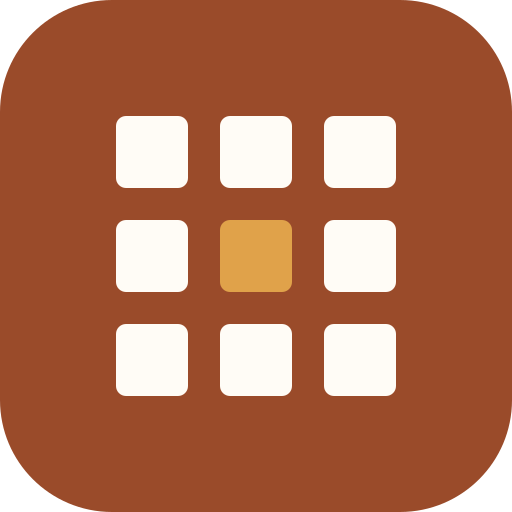
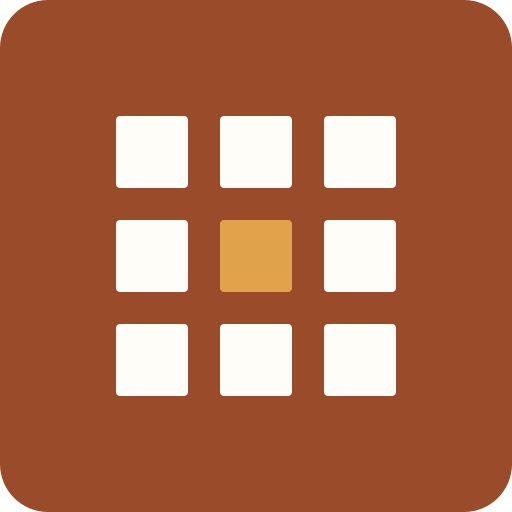
Design system 2.0.0: lighter backgrounds and subtle corners
- Lighter page and card backgrounds in daylight and golden hour; daylight
  body text contrast 13.1 -> 13.7:1 (still within the 7-14 rule).
- Corner radius scale reduced to 2/3/4/6/8px; radius.pill and
  radius.circle removed. Chips, tabs, language switch, badges and the
  toggle switch get 3-4px corners. Flatter app icon corners.

Claude-Session: https://claude.ai/code/session_015JBMz7oi3qhYvusnXW5XYX

diff --git a/design-system/dist/preview.html b/design-system/dist/preview.html
@@ -33,7 +33,7 @@
 <main>
   <button class="btn toggle" id="theme" type="button">Theme: system</button>
   <h1>Mannheim Feed design tokens</h1>
-  <p>Version 2.0.0 · 99 tokens · generated from <code>design-system/tokens/</code>. Do not edit this file by hand.</p>
+  <p>Version 2.0.0 · 97 tokens · generated from <code>design-system/tokens/</code>. Do not edit this file by hand.</p>
 
   <h2>Semantic colours (use these in the app; they change with the theme)</h2>
   <ul><li class="sw"><span class="chip" style="background:var(--mf-color-bg-page)"></span>
@@ -56,20 +56,20 @@
   <h2>Core palette (raw values, never used directly in components)</h2>
   <ul><li class="sw"><span class="chip" style="background:var(--mf-color-sand-0)"></span>
         <b>color.sand.0</b><code>#ffffff</code><small>Pure white. Only for small details such as the switch knob.</small></li><li class="sw"><span class="chip" style="background:var(--mf-color-sand-25)"></span>
-        <b>color.sand.25</b><code>#fffcf6</code><small>Daylight paper: cards, inputs, tab bar.</small></li><li class="sw"><span class="chip" style="background:var(--mf-color-sand-50)"></span>
-        <b>color.sand.50</b><code>#faf5ec</code><small>Daylight cream: page background.</small></li><li class="sw"><span class="chip" style="background:var(--mf-color-sand-100)"></span>
-        <b>color.sand.100</b><code>#e9ddc9</code><small>Warm candle-light text (golden hour).</small></li><li class="sw"><span class="chip" style="background:var(--mf-color-sand-200)"></span>
-        <b>color.sand.200</b><code>#e6dccb</code><small>Sand: daylight dividers and outlines.</small></li><li class="sw"><span class="chip" style="background:var(--mf-color-sand-400)"></span>
-        <b>color.sand.400</b><code>#b6a48d</code><small>Dry grass: secondary text at golden hour.</small></li><li class="sw"><span class="chip" style="background:var(--mf-color-sand-600)"></span>
+        <b>color.sand.25</b><code>#fffdf8</code><small>Daylight paper: cards, inputs, tab bar.</small></li><li class="sw"><span class="chip" style="background:var(--mf-color-sand-50)"></span>
+        <b>color.sand.50</b><code>#fdfbf6</code><small>Daylight cream: page background.</small></li><li class="sw"><span class="chip" style="background:var(--mf-color-sand-100)"></span>
+        <b>color.sand.100</b><code>#ece1cf</code><small>Warm candle-light text (golden hour).</small></li><li class="sw"><span class="chip" style="background:var(--mf-color-sand-200)"></span>
+        <b>color.sand.200</b><code>#e8e0d2</code><small>Sand: daylight dividers and outlines.</small></li><li class="sw"><span class="chip" style="background:var(--mf-color-sand-400)"></span>
+        <b>color.sand.400</b><code>#bcab95</code><small>Dry grass: secondary text at golden hour.</small></li><li class="sw"><span class="chip" style="background:var(--mf-color-sand-600)"></span>
         <b>color.sand.600</b><code>#6c5d4f</code><small>Driftwood: secondary text in daylight.</small></li><li class="sw"><span class="chip" style="background:var(--mf-color-sand-700)"></span>
-        <b>color.sand.700</b><code>#3f342a</code><small>Dusk dividers.</small></li><li class="sw"><span class="chip" style="background:var(--mf-color-sand-800)"></span>
+        <b>color.sand.700</b><code>#483c30</code><small>Dusk dividers.</small></li><li class="sw"><span class="chip" style="background:var(--mf-color-sand-800)"></span>
         <b>color.sand.800</b><code>#33291f</code><small>Espresso ink: body text in daylight.</small></li><li class="sw"><span class="chip" style="background:var(--mf-color-sand-900)"></span>
-        <b>color.sand.900</b><code>#272019</code><small>Dusk surface: cards at golden hour.</small></li><li class="sw"><span class="chip" style="background:var(--mf-color-sand-950)"></span>
-        <b>color.sand.950</b><code>#1d1813</code><small>Dusk sky: page at golden hour.</small></li><li class="sw"><span class="chip" style="background:var(--mf-color-sun-100)"></span>
-        <b>color.sun.100</b><code>#f4e5d0</code><small>Honey wash: tinted backgrounds in daylight.</small></li><li class="sw"><span class="chip" style="background:var(--mf-color-sun-400)"></span>
+        <b>color.sand.900</b><code>#2f2820</code><small>Dusk surface: cards at golden hour.</small></li><li class="sw"><span class="chip" style="background:var(--mf-color-sand-950)"></span>
+        <b>color.sand.950</b><code>#262019</code><small>Dusk sky: page at golden hour.</small></li><li class="sw"><span class="chip" style="background:var(--mf-color-sun-100)"></span>
+        <b>color.sun.100</b><code>#f6ead8</code><small>Honey wash: tinted backgrounds in daylight.</small></li><li class="sw"><span class="chip" style="background:var(--mf-color-sun-400)"></span>
         <b>color.sun.400</b><code>#e3ae6a</code><small>Low amber sun: primary colour at golden hour.</small></li><li class="sw"><span class="chip" style="background:var(--mf-color-sun-500)"></span>
         <b>color.sun.500</b><code>#e0a24a</code><small>Sun gold: logo and app icon.</small></li><li class="sw"><span class="chip" style="background:var(--mf-color-sun-900)"></span>
-        <b>color.sun.900</b><code>#3f2f1e</code><small>Amber shadow: tinted backgrounds at golden hour.</small></li><li class="sw"><span class="chip" style="background:var(--mf-color-ember-600)"></span>
+        <b>color.sun.900</b><code>#473522</code><small>Amber shadow: tinted backgrounds at golden hour.</small></li><li class="sw"><span class="chip" style="background:var(--mf-color-ember-600)"></span>
         <b>color.ember.600</b><code>#9a4b2a</code><small>Terracotta: primary colour in daylight, app icon background.</small></li><li class="sw"><span class="chip" style="background:var(--mf-color-rose-300)"></span>
         <b>color.rose.300</b><code>#e992a5</code><small>Errors at golden hour.</small></li><li class="sw"><span class="chip" style="background:var(--mf-color-rose-700)"></span>
         <b>color.rose.700</b><code>#9c2c4f</code><small>Errors in daylight.</small></li><li class="sw"><span class="chip" style="background:var(--mf-color-dusk-alpha-6)"></span>
@@ -85,7 +85,7 @@
   <div class="row"><code style="width:7ch">space.0</code><div class="bar" style="width:var(--mf-space-0);min-width:2px"></div><code>0px</code></div><div class="row"><code style="width:7ch">space.1</code><div class="bar" style="width:var(--mf-space-1);min-width:2px"></div><code>4px</code></div><div class="row"><code style="width:7ch">space.2</code><div class="bar" style="width:var(--mf-space-2);min-width:2px"></div><code>8px</code></div><div class="row"><code style="width:7ch">space.3</code><div class="bar" style="width:var(--mf-space-3);min-width:2px"></div><code>12px</code></div><div class="row"><code style="width:7ch">space.4</code><div class="bar" style="width:var(--mf-space-4);min-width:2px"></div><code>16px</code></div><div class="row"><code style="width:7ch">space.5</code><div class="bar" style="width:var(--mf-space-5);min-width:2px"></div><code>20px</code></div><div class="row"><code style="width:7ch">space.6</code><div class="bar" style="width:var(--mf-space-6);min-width:2px"></div><code>24px</code></div><div class="row"><code style="width:7ch">space.8</code><div class="bar" style="width:var(--mf-space-8);min-width:2px"></div><code>32px</code></div><div class="row"><code style="width:7ch">space.10</code><div class="bar" style="width:var(--mf-space-10);min-width:2px"></div><code>40px</code></div><div class="row"><code style="width:7ch">space.12</code><div class="bar" style="width:var(--mf-space-12);min-width:2px"></div><code>48px</code></div><div class="row"><code style="width:7ch">space.24</code><div class="bar" style="width:var(--mf-space-24);min-width:2px"></div><code>96px</code></div>
 
   <h2>Radius</h2>
-  <div class="row"><div><div class="box" style="border-radius:var(--mf-radius-xs)"></div><code>xs<br>6px</code></div><div><div class="box" style="border-radius:var(--mf-radius-sm)"></div><code>sm<br>8px</code></div><div><div class="box" style="border-radius:var(--mf-radius-md)"></div><code>md<br>12px</code></div><div><div class="box" style="border-radius:var(--mf-radius-lg)"></div><code>lg<br>14px</code></div><div><div class="box" style="border-radius:var(--mf-radius-xl)"></div><code>xl<br>20px</code></div><div><div class="box" style="border-radius:var(--mf-radius-pill)"></div><code>pill<br>99px</code></div><div><div class="box" style="border-radius:var(--mf-radius-circle)"></div><code>circle<br>50%</code></div></div>
+  <div class="row"><div><div class="box" style="border-radius:var(--mf-radius-xs)"></div><code>xs<br>2px</code></div><div><div class="box" style="border-radius:var(--mf-radius-sm)"></div><code>sm<br>3px</code></div><div><div class="box" style="border-radius:var(--mf-radius-md)"></div><code>md<br>4px</code></div><div><div class="box" style="border-radius:var(--mf-radius-lg)"></div><code>lg<br>6px</code></div><div><div class="box" style="border-radius:var(--mf-radius-xl)"></div><code>xl<br>8px</code></div></div>
 
   <h2>Shadow</h2>
   <div class="row"><div><div class="box" style="box-shadow:var(--mf-shadow-raised)"></div><code>raised</code></div><div><div class="box" style="box-shadow:var(--mf-shadow-knob)"></div><code>knob</code></div></div>

diff --git a/web/src/index.css b/web/src/index.css
@@ -29,16 +29,16 @@ button, input { font: inherit; color: inherit; }
   border-bottom: 1px solid var(--mf-color-border-default);
 }
 .brand { display: flex; align-items: center; gap: 10px; font-weight: var(--mf-font-weight-heavy); font-stretch: var(--mf-font-stretch-wide); font-size: var(--mf-font-size-title); letter-spacing: var(--mf-font-letter-spacing-snug); }
-.brand img { border-radius: 7px; }
+.brand img { border-radius: var(--mf-radius-sm); }
 .topbar-end { display: flex; align-items: center; gap: 10px; }
-.lang-switch { display: inline-flex; border: 1px solid var(--mf-color-border-default); border-radius: var(--mf-radius-pill); overflow: hidden; background: var(--mf-color-bg-surface); }
+.lang-switch { display: inline-flex; border: 1px solid var(--mf-color-border-default); border-radius: var(--mf-radius-md); overflow: hidden; background: var(--mf-color-bg-surface); }
 .lang-switch button {
   min-width: var(--mf-size-tap-target); min-height: var(--mf-size-control-sm); padding: 0 var(--mf-space-3); border: 0; background: transparent; color: var(--mf-color-text-secondary);
   font: inherit; font-size: var(--mf-font-size-small); font-weight: var(--mf-font-weight-bold); letter-spacing: var(--mf-font-letter-spacing-wide); cursor: pointer;
 }
 .lang-switch button[aria-pressed='true'] { background: var(--mf-color-accent-default); color: var(--mf-color-text-on-accent); }
 .brand span, .demo-badge { white-space: nowrap; }
-.demo-badge { font-size: var(--mf-font-size-caption); color: var(--mf-color-text-secondary); border: 1px solid var(--mf-color-border-default); padding: 2px 10px; border-radius: var(--mf-radius-pill); }
+.demo-badge { font-size: var(--mf-font-size-caption); color: var(--mf-color-text-secondary); border: 1px solid var(--mf-color-border-default); padding: 2px 10px; border-radius: var(--mf-radius-sm); }
 .content { max-width: var(--mf-size-content-max); margin: 0 auto; padding: var(--mf-space-4) var(--mf-space-4) calc(var(--mf-space-24) + env(safe-area-inset-bottom)); }
 
 /* Barra de pestañas: abajo en el móvil (al alcance del pulgar), arriba en pantallas grandes */
@@ -60,7 +60,7 @@ button, input { font: inherit; color: inherit; }
     inset: calc(8px + env(safe-area-inset-top)) 16px auto auto; padding: 0; gap: var(--mf-space-1);
     background: none; border: 0; display: flex;
   }
-  .tabbar button { flex-direction: row; gap: 6px; font-size: var(--mf-font-size-body-sm); padding: var(--mf-space-2) 14px; border-radius: var(--mf-radius-pill); }
+  .tabbar button { flex-direction: row; gap: 6px; font-size: var(--mf-font-size-body-sm); padding: var(--mf-space-2) 14px; border-radius: var(--mf-radius-md); }
   .tabbar svg { width: var(--mf-size-icon-sm); height: var(--mf-size-icon-sm); }
   .tabbar button[aria-current="page"] { background: var(--mf-color-accent-soft); }
   .content { padding-bottom: var(--mf-space-12); }
@@ -129,7 +129,7 @@ button, input { font: inherit; color: inherit; }
 
 .easy { padding: 0 0 14px; margin-top: -6px; }
 .easy summary {
-  display: inline-flex; align-items: center; min-height: var(--mf-size-control-xs); padding: 2px var(--mf-space-3); border-radius: var(--mf-radius-pill);
+  display: inline-flex; align-items: center; min-height: var(--mf-size-control-xs); padding: 2px var(--mf-space-3); border-radius: var(--mf-radius-md);
   background: var(--mf-color-accent-soft); color: var(--mf-color-accent-default); font-size: var(--mf-font-size-small); font-weight: var(--mf-font-weight-semibold); cursor: pointer; list-style: none;
 }
 .easy summary::-webkit-details-marker { display: none; }
@@ -137,7 +137,7 @@ button, input { font: inherit; color: inherit; }
 .easy-box { margin-top: 10px; padding-left: var(--mf-space-3); border-left: 3px solid var(--mf-color-accent-default); max-width: var(--mf-size-measure); }
 .easy-box p { margin: var(--mf-space-2) 0 0; }
 .easy-badge { font-size: var(--mf-font-size-caption); color: var(--mf-color-text-secondary); }
-.article-ai { font-size: var(--mf-font-size-caption); color: var(--mf-color-text-secondary); border: 1px solid var(--mf-color-border-default); border-radius: var(--mf-radius-pill); padding: 0 var(--mf-space-2); }
+.article-ai { font-size: var(--mf-font-size-caption); color: var(--mf-color-text-secondary); border: 1px solid var(--mf-color-border-default); border-radius: var(--mf-radius-sm); padding: 0 var(--mf-space-2); }
 
 .state { padding: var(--mf-space-8) var(--mf-space-1); color: var(--mf-color-text-secondary); }
 .state p { margin: 0 0 14px; max-width: 46ch; }
@@ -158,11 +158,11 @@ button, input { font: inherit; color: inherit; }
 .switch-row { display: flex; align-items: center; justify-content: space-between; gap: var(--mf-space-4); cursor: pointer; }
 .switch-label { font-weight: var(--mf-font-weight-medium); }
 .switch {
-  appearance: none; flex: none; width: var(--mf-switch-width); height: var(--mf-switch-height); border-radius: var(--mf-radius-pill); background: var(--mf-color-border-default);
+  appearance: none; flex: none; width: var(--mf-switch-width); height: var(--mf-switch-height); border-radius: var(--mf-radius-md); background: var(--mf-color-border-default);
   position: relative; cursor: pointer; transition: background var(--mf-motion-duration-fast) var(--mf-motion-easing-standard);
 }
 .switch::after {
-  content: ''; position: absolute; top: var(--mf-switch-knob-inset); left: var(--mf-switch-knob-inset); width: var(--mf-switch-knob-size); height: var(--mf-switch-knob-size); border-radius: var(--mf-radius-circle);
+  content: ''; position: absolute; top: var(--mf-switch-knob-inset); left: var(--mf-switch-knob-inset); width: var(--mf-switch-knob-size); height: var(--mf-switch-knob-size); border-radius: var(--mf-radius-xs);
   background: var(--mf-color-control-knob); box-shadow: var(--mf-shadow-knob); transition: transform var(--mf-motion-duration-fast) var(--mf-motion-easing-standard);
 }
 .switch:checked { background: var(--mf-color-accent-default); }

diff --git a/design-system/dist/css/tokens.css b/design-system/dist/css/tokens.css
@@ -4,20 +4,20 @@
  */
 :root {
   --mf-color-sand-0: #ffffff; /** Pure white. Only for small details such as the switch knob. */
-  --mf-color-sand-25: #fffcf6; /** Daylight paper: cards, inputs, tab bar. */
-  --mf-color-sand-50: #faf5ec; /** Daylight cream: page background. */
-  --mf-color-sand-100: #e9ddc9; /** Warm candle-light text (golden hour). */
-  --mf-color-sand-200: #e6dccb; /** Sand: daylight dividers and outlines. */
-  --mf-color-sand-400: #b6a48d; /** Dry grass: secondary text at golden hour. */
+  --mf-color-sand-25: #fffdf8; /** Daylight paper: cards, inputs, tab bar. */
+  --mf-color-sand-50: #fdfbf6; /** Daylight cream: page background. */
+  --mf-color-sand-100: #ece1cf; /** Warm candle-light text (golden hour). */
+  --mf-color-sand-200: #e8e0d2; /** Sand: daylight dividers and outlines. */
+  --mf-color-sand-400: #bcab95; /** Dry grass: secondary text at golden hour. */
   --mf-color-sand-600: #6c5d4f; /** Driftwood: secondary text in daylight. */
-  --mf-color-sand-700: #3f342a; /** Dusk dividers. */
+  --mf-color-sand-700: #483c30; /** Dusk dividers. */
   --mf-color-sand-800: #33291f; /** Espresso ink: body text in daylight. */
-  --mf-color-sand-900: #272019; /** Dusk surface: cards at golden hour. */
-  --mf-color-sand-950: #1d1813; /** Dusk sky: page at golden hour. */
-  --mf-color-sun-100: #f4e5d0; /** Honey wash: tinted backgrounds in daylight. */
+  --mf-color-sand-900: #2f2820; /** Dusk surface: cards at golden hour. */
+  --mf-color-sand-950: #262019; /** Dusk sky: page at golden hour. */
+  --mf-color-sun-100: #f6ead8; /** Honey wash: tinted backgrounds in daylight. */
   --mf-color-sun-400: #e3ae6a; /** Low amber sun: primary colour at golden hour. */
   --mf-color-sun-500: #e0a24a; /** Sun gold: logo and app icon. */
-  --mf-color-sun-900: #3f2f1e; /** Amber shadow: tinted backgrounds at golden hour. */
+  --mf-color-sun-900: #473522; /** Amber shadow: tinted backgrounds at golden hour. */
   --mf-color-ember-600: #9a4b2a; /** Terracotta: primary colour in daylight, app icon background. */
   --mf-color-rose-300: #e992a5; /** Errors at golden hour. */
   --mf-color-rose-700: #9c2c4f; /** Errors in daylight. */
@@ -34,13 +34,11 @@
   --mf-space-10: 40px;
   --mf-space-12: 48px;
   --mf-space-24: 96px;
-  --mf-radius-xs: 6px;
-  --mf-radius-sm: 8px;
-  --mf-radius-md: 12px; /** Buttons, inputs, thumbnails. Softer corners since v1.1. */
-  --mf-radius-lg: 14px;
-  --mf-radius-xl: 20px;
-  --mf-radius-pill: 99px;
-  --mf-radius-circle: 50%;
+  --mf-radius-xs: 2px; /** Focus ring, switch knob, tiny details. */
+  --mf-radius-sm: 3px; /** Badges and labels, the logo in the header. */
+  --mf-radius-md: 4px; /** Buttons, inputs, chips, tabs, switch, thumbnails. */
+  --mf-radius-lg: 6px;
+  --mf-radius-xl: 8px; /** Largest corner: the logo on the login screen. */
   --mf-font-family-mono: 'Inconsolata Variable', 'Inconsolata', ui-monospace, 'SF Mono', Menlo, Consolas, monospace; /** Inconsolata (SIL Open Font License), a variable font with weight (200-900) and width (50-200%) axes. Bundled with the app from the @fontsource-variable/inconsolata package, so it works offline and is not loaded from Google. System monospace fonts are the fallback. */
   --mf-font-size-adjust: 0.5; /** CSS font-size-adjust: scales the font so its lowercase letters are half the font size. Inconsolata's lowercase is only 0.46, so this makes it about 9% larger and as legible as a typical sans-serif at the same font size. Also keeps fallback fonts the same visual size. Change it if the font changes. */
   --mf-font-size-caption: 0.8125rem; /** 13px. Badges, tab labels. */
@@ -114,7 +112,7 @@
   --mf-input-padding-x: var(--mf-space-3);
   --mf-input-padding-y: var(--mf-space-2);
   --mf-chip-min-height: var(--mf-size-control-sm);
-  --mf-chip-radius: var(--mf-radius-pill);
+  --mf-chip-radius: var(--mf-radius-md);
   --mf-article-title-size: var(--mf-font-size-title);
   --mf-article-padding-y: var(--mf-space-5);
   color-scheme: light;

diff --git a/design-system/dist/ts/tokens.ts b/design-system/dist/ts/tokens.ts
@@ -8,22 +8,22 @@ export const tokens = {
   "color": {
     "sand": {
       "0": "#ffffff",
-      "25": "#fffcf6",
-      "50": "#faf5ec",
-      "100": "#e9ddc9",
-      "200": "#e6dccb",
-      "400": "#b6a48d",
+      "25": "#fffdf8",
+      "50": "#fdfbf6",
+      "100": "#ece1cf",
+      "200": "#e8e0d2",
+      "400": "#bcab95",
       "600": "#6c5d4f",
-      "700": "#3f342a",
+      "700": "#483c30",
       "800": "#33291f",
-      "900": "#272019",
-      "950": "#1d1813"
+      "900": "#2f2820",
+      "950": "#262019"
     },
     "sun": {
-      "100": "#f4e5d0",
+      "100": "#f6ead8",
       "400": "#e3ae6a",
       "500": "#e0a24a",
-      "900": "#3f2f1e"
+      "900": "#473522"
     },
     "ember": {
       "600": "#9a4b2a"
@@ -51,13 +51,11 @@ export const tokens = {
     "24": "96px"
   },
   "radius": {
-    "xs": "6px",
-    "sm": "8px",
-    "md": "12px",
-    "lg": "14px",
-    "xl": "20px",
-    "pill": "99px",
-    "circle": "50%"
+    "xs": "2px",
+    "sm": "3px",
+    "md": "4px",
+    "lg": "6px",
+    "xl": "8px"
   },
   "font": {
     "family": {
@@ -128,20 +126,20 @@ export const tokens = {
   },
   "button": {
     "min-height": "44px",
-    "radius": "12px",
+    "radius": "4px",
     "padding-x": "18px",
     "padding-y": "8px",
     "font-weight": 600
   },
   "input": {
     "min-height": "44px",
-    "radius": "12px",
+    "radius": "4px",
     "padding-x": "12px",
     "padding-y": "8px"
   },
   "chip": {
     "min-height": "36px",
-    "radius": "99px",
+    "radius": "4px",
     "padding-x": "14px",
     "padding-y": "6px",
     "gap": "6px"
@@ -164,20 +162,20 @@ export const tokens = {
 export const themes = {
   light: {
     "bg": {
-      "page": "#faf5ec",
-      "surface": "#fffcf6"
+      "page": "#fdfbf6",
+      "surface": "#fffdf8"
     },
     "text": {
       "primary": "#33291f",
       "secondary": "#6c5d4f",
-      "on-accent": "#fffcf6"
+      "on-accent": "#fffdf8"
     },
     "border": {
-      "default": "#e6dccb"
+      "default": "#e8e0d2"
     },
     "accent": {
       "default": "#9a4b2a",
-      "soft": "#f4e5d0"
+      "soft": "#f6ead8"
     },
     "feedback": {
       "danger": "#9c2c4f"
@@ -199,20 +197,20 @@ export const themes = {
   },
   dark: {
     "bg": {
-      "page": "#1d1813",
-      "surface": "#272019"
+      "page": "#262019",
+      "surface": "#2f2820"
     },
     "text": {
-      "primary": "#e9ddc9",
-      "secondary": "#b6a48d",
-      "on-accent": "#1d1813"
+      "primary": "#ece1cf",
+      "secondary": "#bcab95",
+      "on-accent": "#262019"
     },
     "border": {
-      "default": "#3f342a"
+      "default": "#483c30"
     },
     "accent": {
       "default": "#e3ae6a",
-      "soft": "#3f2f1e"
+      "soft": "#473522"
     },
     "feedback": {
       "danger": "#e992a5"
@@ -221,7 +219,7 @@ export const themes = {
       "ring": "#e3ae6a"
     },
     "icon": {
-      "default": "#b6a48d",
+      "default": "#bcab95",
       "active": "#e3ae6a"
     },
     "brand": {

diff --git a/design-system/CHANGELOG.md b/design-system/CHANGELOG.md
@@ -9,13 +9,18 @@ New identity: a daylight and golden-hour palette, the Inconsolata typeface and s
 
 ### Breaking (renamed or removed tokens)
 - `font.family.sans` → **`font.family.mono`** (CSS `--mf-font-family-mono`).
+- `radius.pill` and `radius.circle` removed (no round shapes in v2).
 - Core colours renamed to the new palette: `color.neutral.*` → `color.sand.*`, `color.blue.*` → `color.sun.*` / `color.ember.*`, `color.red.*` → `color.rose.*`, `color.black-alpha.*` → `color.dusk-alpha.*`. Semantic colour names (`color.accent.default`, `color.text.primary`…) are unchanged.
 
 ### Changed: colour
-- **No blue.** Light mode is *daylight*: cream paper `#FAF5EC`, espresso text `#33291F`, terracotta primary `#9A4B2A`. Dark mode is *golden hour*: dusk `#1D1813`, candle-light text `#E9DDC9`, amber primary `#E3AE6A`.
+- **No blue.** Light mode is *daylight*: light cream page `#FDFBF6`, near-white cards `#FFFDF8`, espresso text `#33291F`, terracotta primary `#9A4B2A`. Dark mode is *golden hour*: dusk `#262019`, cards `#2F2820`, candle-light text `#ECE1CF`, amber primary `#E3AE6A`.
+- **Lighter backgrounds** in both modes for readability: daylight body text rises to 13.7:1, still under the 14:1 glare ceiling.
 - Errors use evening rose (`#9C2C4F` / `#E992A5`), a different hue from the terracotta and amber.
 - Shadows use translucent dusk brown instead of black.
 - PWA status bar: terracotta `#9A4B2A`; splash background: cream.
+
+### Changed: shape
+- **Subtle corners only.** Radius scale is now 2 / 3 / 4 / 6 / 8px (was up to 20px). The `radius.pill` and `radius.circle` tokens are **removed**: chips, tabs, the language switch, badges and the toggle switch now have 3–4px corners. The app icon's corners are flatter too.
 
 ### Changed: type
 - **Inconsolata** (variable, weights 200–900, widths 50–200%), bundled with the app via `@fontsource-variable/inconsolata` and cached for offline use. No more Google Fonts request.
@@ -28,7 +33,7 @@ New identity: a daylight and golden-hour palette, the Inconsolata typeface and s
 - New app icon generated from the tokens (`npm run icons` in `web/`): cream Quadrate grid on terracotta, gold sun in the centre.
 
 ### Checks
-- 32 colour pairs pass in both themes. Body text: 13.1:1 (daylight) and 13.1:1 (golden hour), inside the 7–14 soft range.
+- 32 colour pairs pass in both themes. Body text: 13.7:1 (daylight) and 12.5:1 (golden hour), inside the 7–14 soft range.
 
 ## 1.1.0 · 2026-11-27
 

diff --git a/design-system/README.md b/design-system/README.md
@@ -27,13 +27,13 @@ design-system/
 
 **Daylight and golden hour; soft, calm and easy to read.** The colour rules are enforced by `npm run check`, not just written down.
 
-- **Daylight and golden hour.** Light mode is *daylight*: warm cream paper, espresso ink, terracotta as the primary colour. Dark mode is *golden hour*: dusk browns lit by a low amber sun. No blue anywhere.
+- **Daylight and golden hour.** Light mode is *daylight*: light, warm cream paper, espresso ink, terracotta as the primary colour. Dark mode is *golden hour*: dusk browns lit by a low amber sun. No blue anywhere.
 - **Calm colour.** Warm but muted (no neon orange). Error rose is kept apart from the terracotta by hue, so an error never looks like a button.
 - **No glare.** Off-white surfaces and charcoal text instead of pure white and black. Body text contrast must stay between 7:1 (WCAG AAA) and 14:1.
 - **Readable text.** Nothing smaller than 13px; running text at 15–16px with 1.6 line spacing; lines no longer than about 60 characters.
 - **One typeface: Inconsolata.** A monospace font, bundled with the app (works offline, never loaded from Google). `font-size-adjust: 0.5` makes up for its short lowercase letters, so it reads as large as a sans-serif.
 - **Simple, single-colour icons** from Pictogrammers. See [Icons](#icons).
-- **Smooth shapes and motion.** Rounded corners, light shadows, 200ms ease-out transitions (switched off when the phone asks for reduced motion).
+- **Crisp shapes, smooth motion.** Subtle corners only (2–8px, no pill or round shapes), light shadows, 200ms ease-out transitions (switched off when the phone asks for reduced motion).
 
 ## Icons
 
